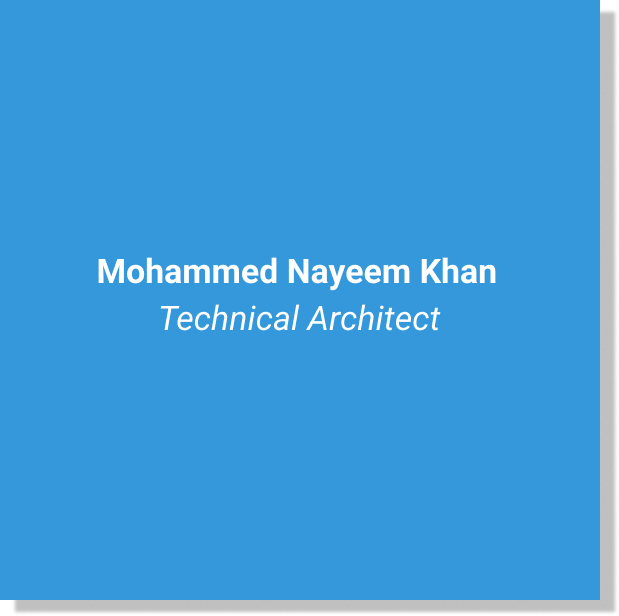
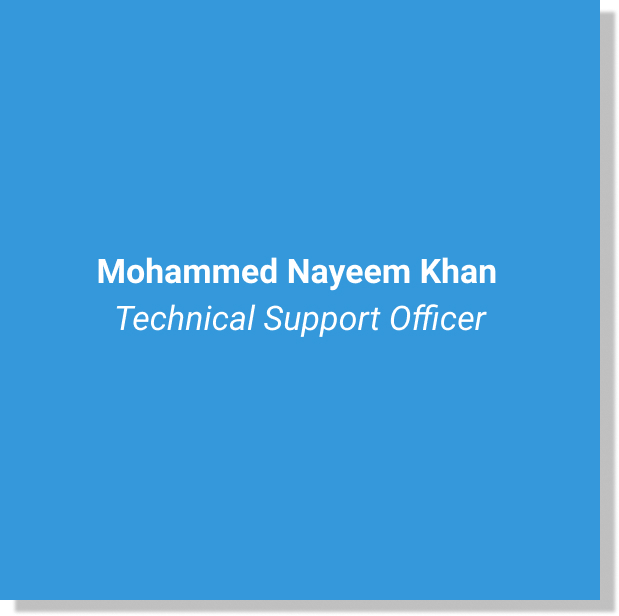
about our team changed to our management team and name and positions images changed

Changed region(s): [[0.1842, 0.4935, 0.7981, 0.5552]]

diff --git a/pages/about.html b/pages/about.html
@@ -101,7 +101,7 @@
          <section id="team" class="team">
             <div class="container">
                <div class="section-title">
-                  <h2>Our Team</h2>
+                  <h2>Our Management Team</h2>
                   <p>Expertise team in our organization playing a key role to meet the client's expectation by practicing the industry standard disciplinary process to adopt the digital modernization.</p>
                </div>
                <div class="row justify-content-center">
@@ -127,7 +127,7 @@
                         <img src="../assets/img/team/team-2.jpg" class="img-fluid" alt="">
                         <div class="member-info">
                            <div class="member-info-content">
-                              <h4>Sarah Jhonson</h4>
+                              <h4>Ayesha Zoha</h4>
                               <span>Product Manager</span>
                               <div class="social">
                                  <a><i class="icofont-twitter"></i></a>
@@ -161,7 +161,7 @@
                         <img src="../assets/img/team/team-4.jpg" class="img-fluid" alt="">
                         <div class="member-info">
                            <div class="member-info-content">
-                              <h4>Amanda Jepson</h4>
+                              <h4>Mohammed Nayeem Khan</h4>
                               <span>Accountant</span>
                               <div class="social">
                                  <a href=""><i class="icofont-twitter"></i></a>

diff --git a/index.html b/index.html
@@ -391,9 +391,7 @@
                   <img src="assets/img/clients/client-2.png" alt="Client 2">
                   <img src="assets/img/clients/client-3.png" alt="Client 3">
                   <img src="assets/img/clients/client-4.png" alt="Client 4">
-                  <img src="" alt="">
-                  <img src="" alt="">
-                  <img src="" alt="">
+                  <img src="assets/img/clients/client-5.png" alt="Client 5">
                </div>
 
             </div>
